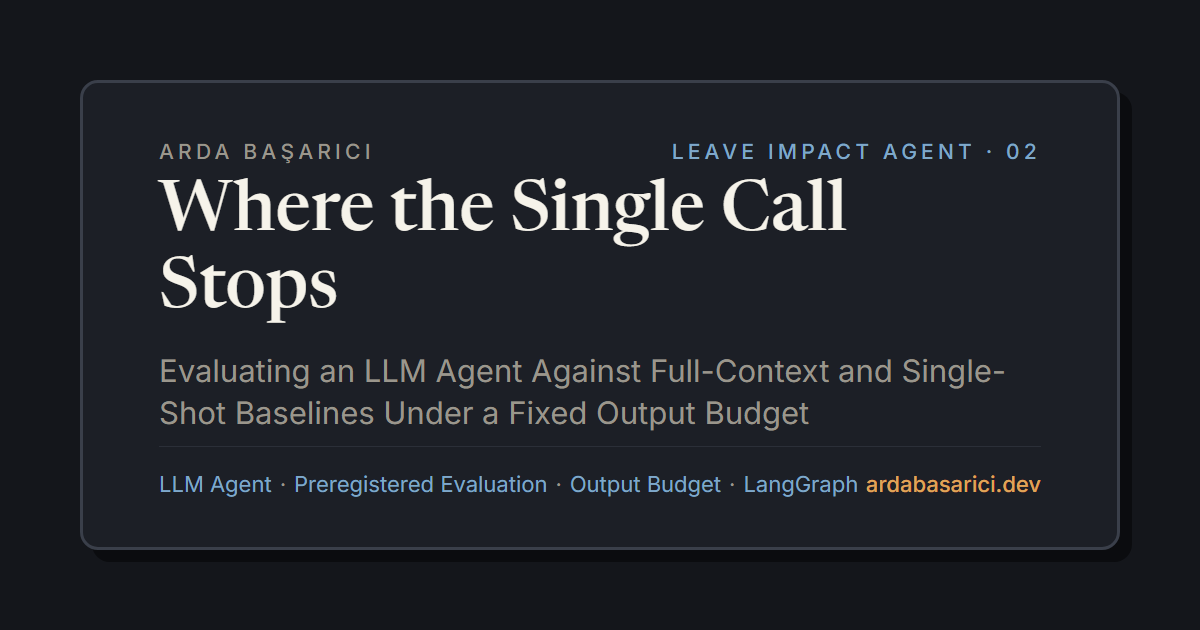
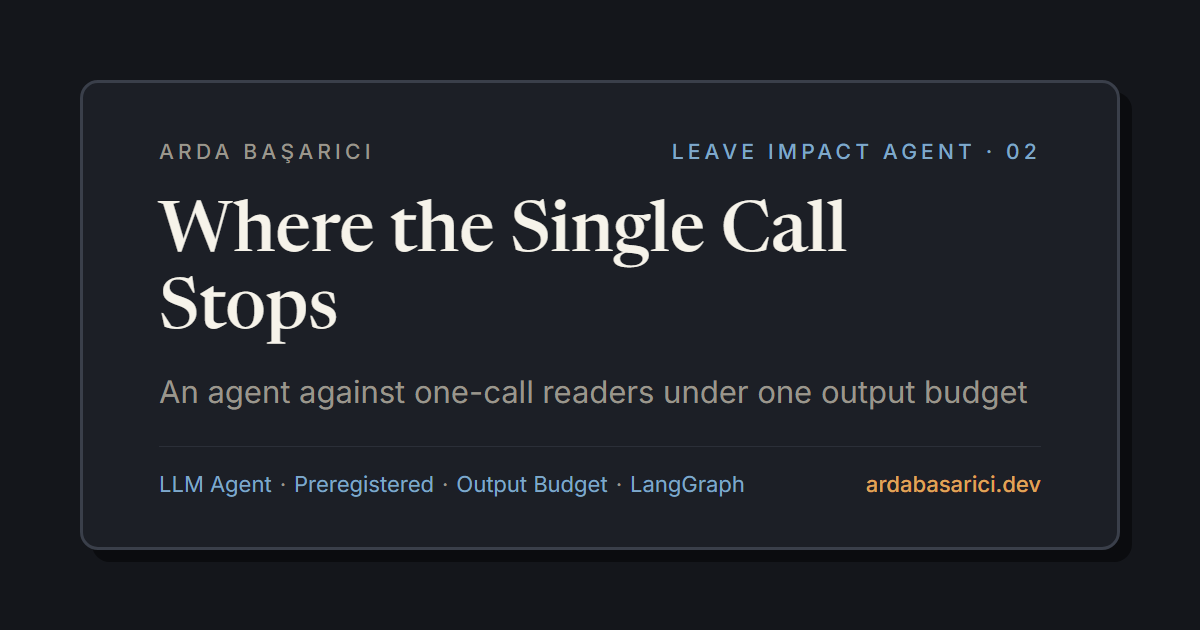
leave-impact pages: result table first, the misses section, the loop decisions listed, body links, landing intro; card tags and subtitle

Changed region(s): [[0.1233, 0.2714, 0.7092, 0.5429], [0.1233, 0.573, 0.8633, 0.6937], [0.37, 0.754, 0.7092, 0.7841]]

diff --git a/src/content/series/leave-impact-agent.md b/src/content/series/leave-impact-agent.md
@@ -2,7 +2,7 @@
 slug: leave-impact-agent
 title: 'Leave Impact Agent'
 seoTitle: 'Leave Impact Agent: An LLM Agent Evaluated on a Constructed Organization'
-ogTags: [LLM Agent, Ground Truth by Construction, Preregistered Evaluation]
+ogTags: [LLM Agent, Ground Truth by Construction, Preregistered]
 blurb: >-
   When an employee goes on leave, someone has to work out what the absence affects and
   who can cover it. The Leave Impact Agent reads the organization's HR system, issue
@@ -39,8 +39,9 @@ tracker, the calendar and documents nobody reads until they must. The Leave Impa
 Agent does that investigation across those systems and drafts a coverage plan with the
 record behind each claim: this person covers Thursday's client call, that ticket moves
 to someone who holds the skill, this need has no qualified cover and the plan says so.
-Every unknown is stated as unknown. The human approves or declines; the agent never
-makes the employment decision.
+The plan says where it stands: who is viable, what it assigns, and where an unknown or
+a conflict remains. The human approves or declines; the agent never makes the
+employment decision.
 
 The question the project is built around is how anyone would know the plan is right.
 There is no real workforce to label, and a benchmark labeled after the fact inherits
@@ -73,11 +74,13 @@ was whether that loop earns its cost against three simpler ways of producing the
 plan: the rules alone over the structured records, one retrieval then one call, and one
 call shown every document. The comparison was registered before the measurement world
 existed, the world was drawn from a secret seed, and the evaluation ran once: 240 runs
-for $9.96 in model calls. The result is on the investigator milestone's page, with the
-report.
+for $9.96 in model calls. The result is on
+[the investigator milestone's page](/projects/leave-impact-agent-investigator/), with
+[the report](/reports/where-the-single-call-stops.pdf).
 
 **Milestone 1, the world, is built and audited; milestone 2, the investigator, is built
-and measured, and the report is on its page. Milestone 3, the demo, is under way:** a replay-first
+and measured, and the report is on [its page](/projects/leave-impact-agent-investigator/).
+Milestone 3, the demo, is under way:** a replay-first
 surface over the golden world behind a public URL, live runs capped and off by default.
 A conversation over the same evidence base is committed strictly after it.
 
@@ -88,13 +91,23 @@ not labeled, and the consistency check that every scenario passes shares its rul
 every system, so the audits are the check on the rules. The evaluator runs under its own
 identity, reads exports and never re-reads a vendor. The registration was frozen at a
 commit before the world was drawn, and it reads a comparison as an interval, never as a
-test of superiority. In the loop, four decisions are each tied to the failure they
-prevent: the event log as authority, a claim that fences the previous worker's writes,
-every model call authorized against the budget before it is sent, and the evaluator
-isolated from the systems it grades; before any reported run the worker was killed at
-every boundary two reference runs cross, 469 rows in all, and recovered as forecast once
-two forecasts had been corrected. The
-runs themselves went through the deployed lifecycle: a workflow sends each step to the
-instance, a human approves in a private session when the policy asks for one, and the
-export is published where the evaluator reads it. The host, its network and the deploy
-role are code in the platform repository.
+test of superiority.
+
+In the loop, four decisions are each tied to the failure they prevent:
+
+- The event log is the authority: recovery replays it, the audit reads it, and the run's
+  export is built from it, so a crashed worker resumes from what was recorded.
+- A claim fences a generation: after a new claim, the previous worker authorizes nothing
+  and appends no outcome, and a request it had already sent stays an unresolved send.
+- Budget before inference: every model call is authorized against the budget before it
+  is sent, and an attempt that closes without an export lists its known consumption, its
+  retained liability and their total.
+- The evaluator is isolated: it runs under its own identity, reads exports and never
+  re-reads a vendor.
+
+Before any reported run the worker was killed at every boundary two reference runs
+cross, 469 rows in all, and recovered as forecast once two forecasts had been corrected.
+The runs themselves went through the deployed lifecycle: a workflow sends each step to
+the instance, a human approves in a private session when the policy asks for one, and
+the export is published where the evaluator reads it. The host, its network and the
+deploy role are code in the platform repository.

diff --git a/src/content/projects/leave-impact-agent-investigator.md b/src/content/projects/leave-impact-agent-investigator.md
@@ -2,7 +2,8 @@
 slug: leave-impact-agent-investigator
 title: 'Where the Single Call Stops'
 seoTitle: 'Evaluating an LLM Agent Against Full-Context and Single-Shot Baselines Under a Fixed Output Budget'
-ogTags: [LLM Agent, Preregistered Evaluation, Output Budget, LangGraph]
+ogSubtitle: An agent against one-call readers under one output budget
+ogTags: [LLM Agent, Preregistered, Output Budget, LangGraph]
 summary: >-
   Does an agent's reading loop earn its cost against one call shown every document?
   Four systems answered the same thirty leave scenarios on a constructed organization,
@@ -37,6 +38,31 @@ evidence behind each claim. The report measures whether its reading loop earns i
 against three simpler ways of producing the same plan, on an organization built so that
 the right answer is known.
 
+## What was found
+
+A scenario counts as correct whole when every required claim is present and right,
+nothing unexpected is claimed, and no finding stands against the plan.
+
+| System | Base | Padded |
+|---|---:|---:|
+| Investigator | 24 of 30 | 24 of 30 |
+| Full context, one call | 30 of 30 | 14 of 30 |
+| Single shot, one retrieval then one call | 22 of 30 | 10 of 30 |
+| Rules only, no model | 10 of 30 | 10 of 30 |
+
+The rules pass exactly the structured tier and nothing else, so twenty scenarios are
+where any model-reading system can differ. The investigator misses the same six at both
+levels.
+
+At the padded level the single call stops at its output allowance on 24 of its 30
+calls, the cap on what it may write and not on what it may read, and 15 of its 16
+failures coincided with a stopped call; one did not. The registered primary comparison,
+the investigator against full context at the padded level, is an observed difference of
+33 percentage points of scenarios with a paired interval of 20 to 47 points at 95
+percent. The investigator wrote 47,806 output tokens across its thirty padded runs
+against full context's 211,989, because a loop states the facts its searches returned
+where the one call must state everything it was shown.
+
 ## Four systems, one answer key
 
 Every system begins with the same frozen prefetch of the structured records and
@@ -57,25 +83,17 @@ comparison was registered before the measurement world existed. The evaluation r
 once at two corpus levels, the base corpus and a padded one: 240 runs for $9.96 in
 model calls.
 
-## What was found
+## Where the investigator still fails
 
-A scenario counts as correct whole when every required claim is present and right,
-nothing unexpected is claimed, and no finding stands against the plan.
-
-- **Base level:** full context 30 of 30, the investigator 24, single shot 22, rules
-  only 10. The rules pass exactly the structured tier and nothing else, so twenty
-  scenarios are where any model-reading system can differ.
-- **Padded level:** the investigator 24 of 30 again, with the same six misses; full
-  context 14, single shot 10, rules only 10.
-
-At the padded level the single call stops at its output allowance on 24 of its 30
-calls, the cap on what it may write and not on what it may read, and 15 of its 16
-failures coincided with a stopped call; one did not. The registered primary comparison,
-the investigator against full context at the padded level, is an observed difference of
-33 percentage points of scenarios with a paired interval of 20 to 47 points at 95
-percent. The investigator wrote 47,806 output tokens across its thirty padded runs
-against full context's 211,989, because a loop states the facts its searches returned
-where the one call must state everything it was shown.
+The investigator's six misses are the same six scenarios at both levels, all in the
+fragmented tier, where the needed facts live only in prose. Its mechanism measure
+follows each needed fact through four stages: whether a document carrying it was
+returned to the run, whether the model emitted the fact, whether the record admitted
+it, and whether the rules could use it. At the padded level the stages read 31, 26, 26,
+25 of 31 needed facts. Every needed carrier was returned, so retrieval is complete and
+the losses occur after it: five facts were returned and not emitted, and one was emitted
+and admitted but the rules could not use it. Six missing facts and six failed scenarios
+are different units, and the equal totals are a coincidence the report does not lean on.
 
 ## How the result was held to account
 
